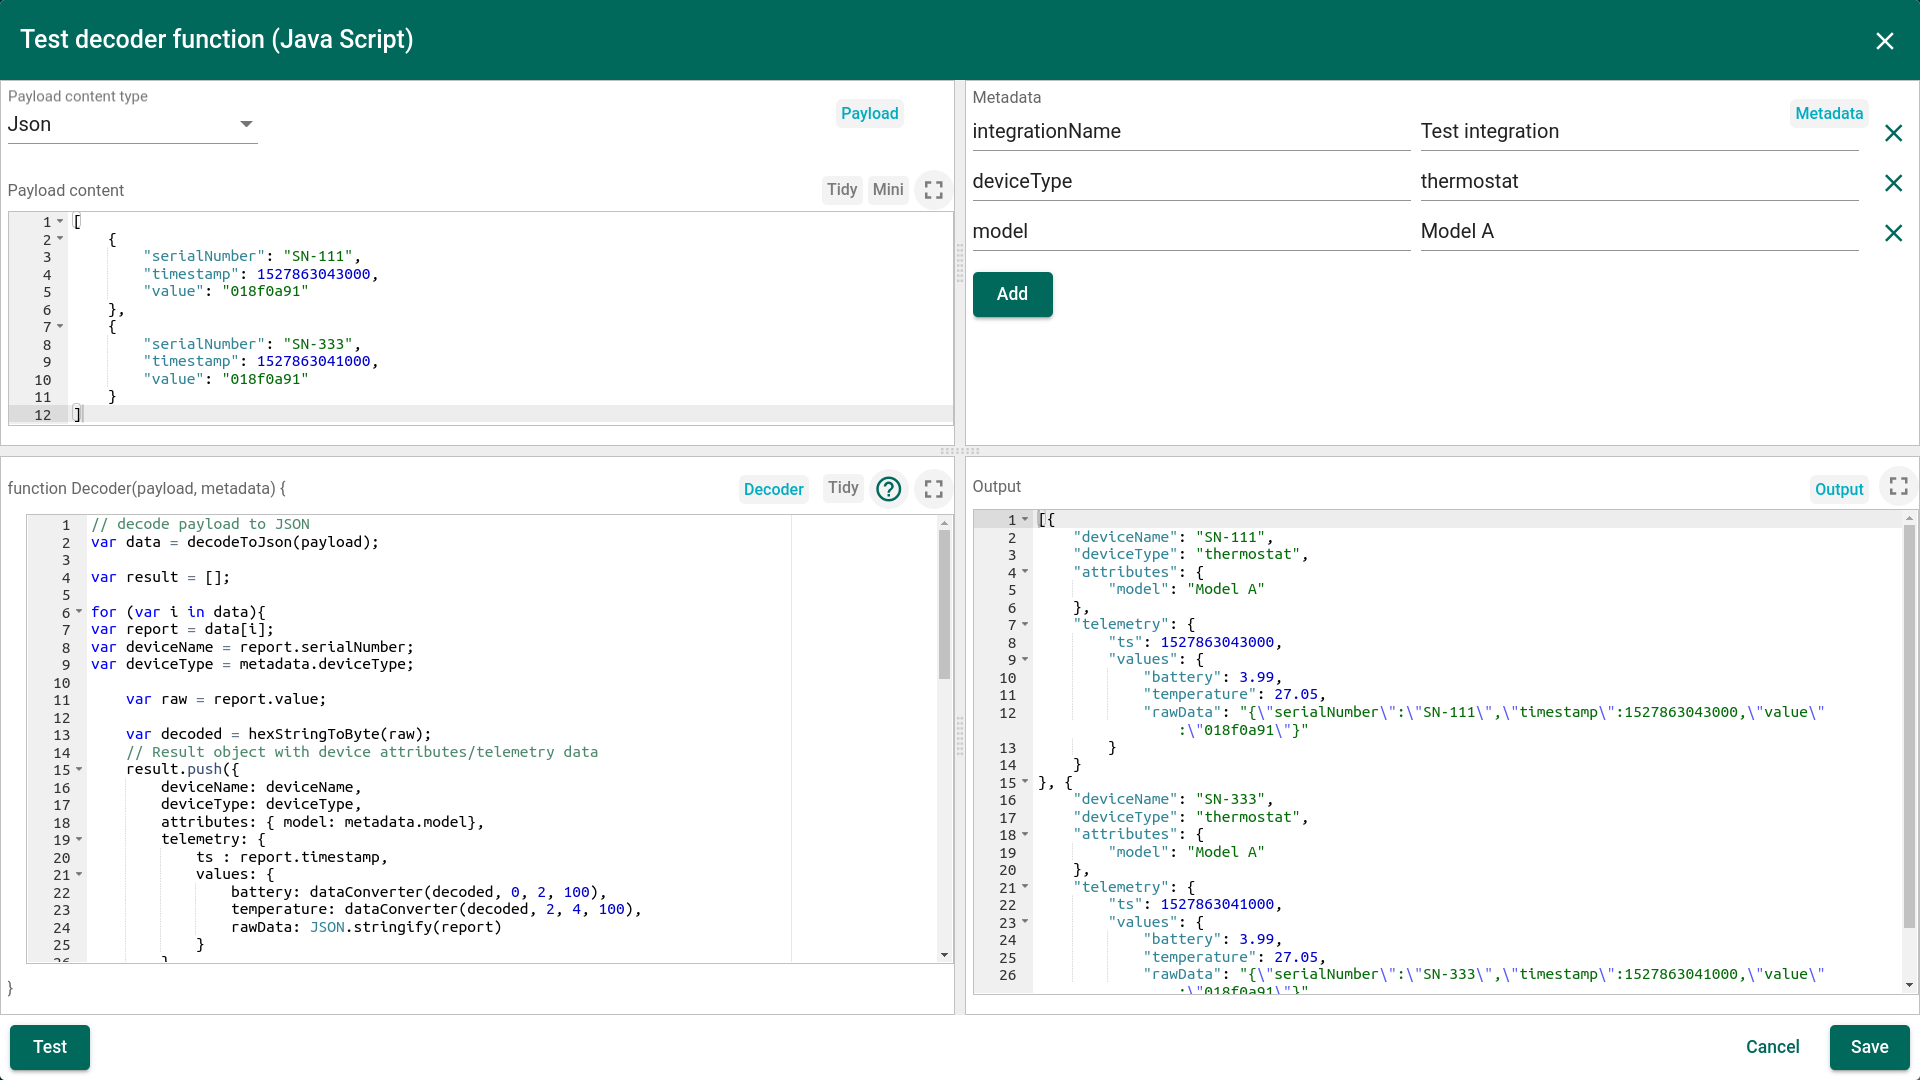
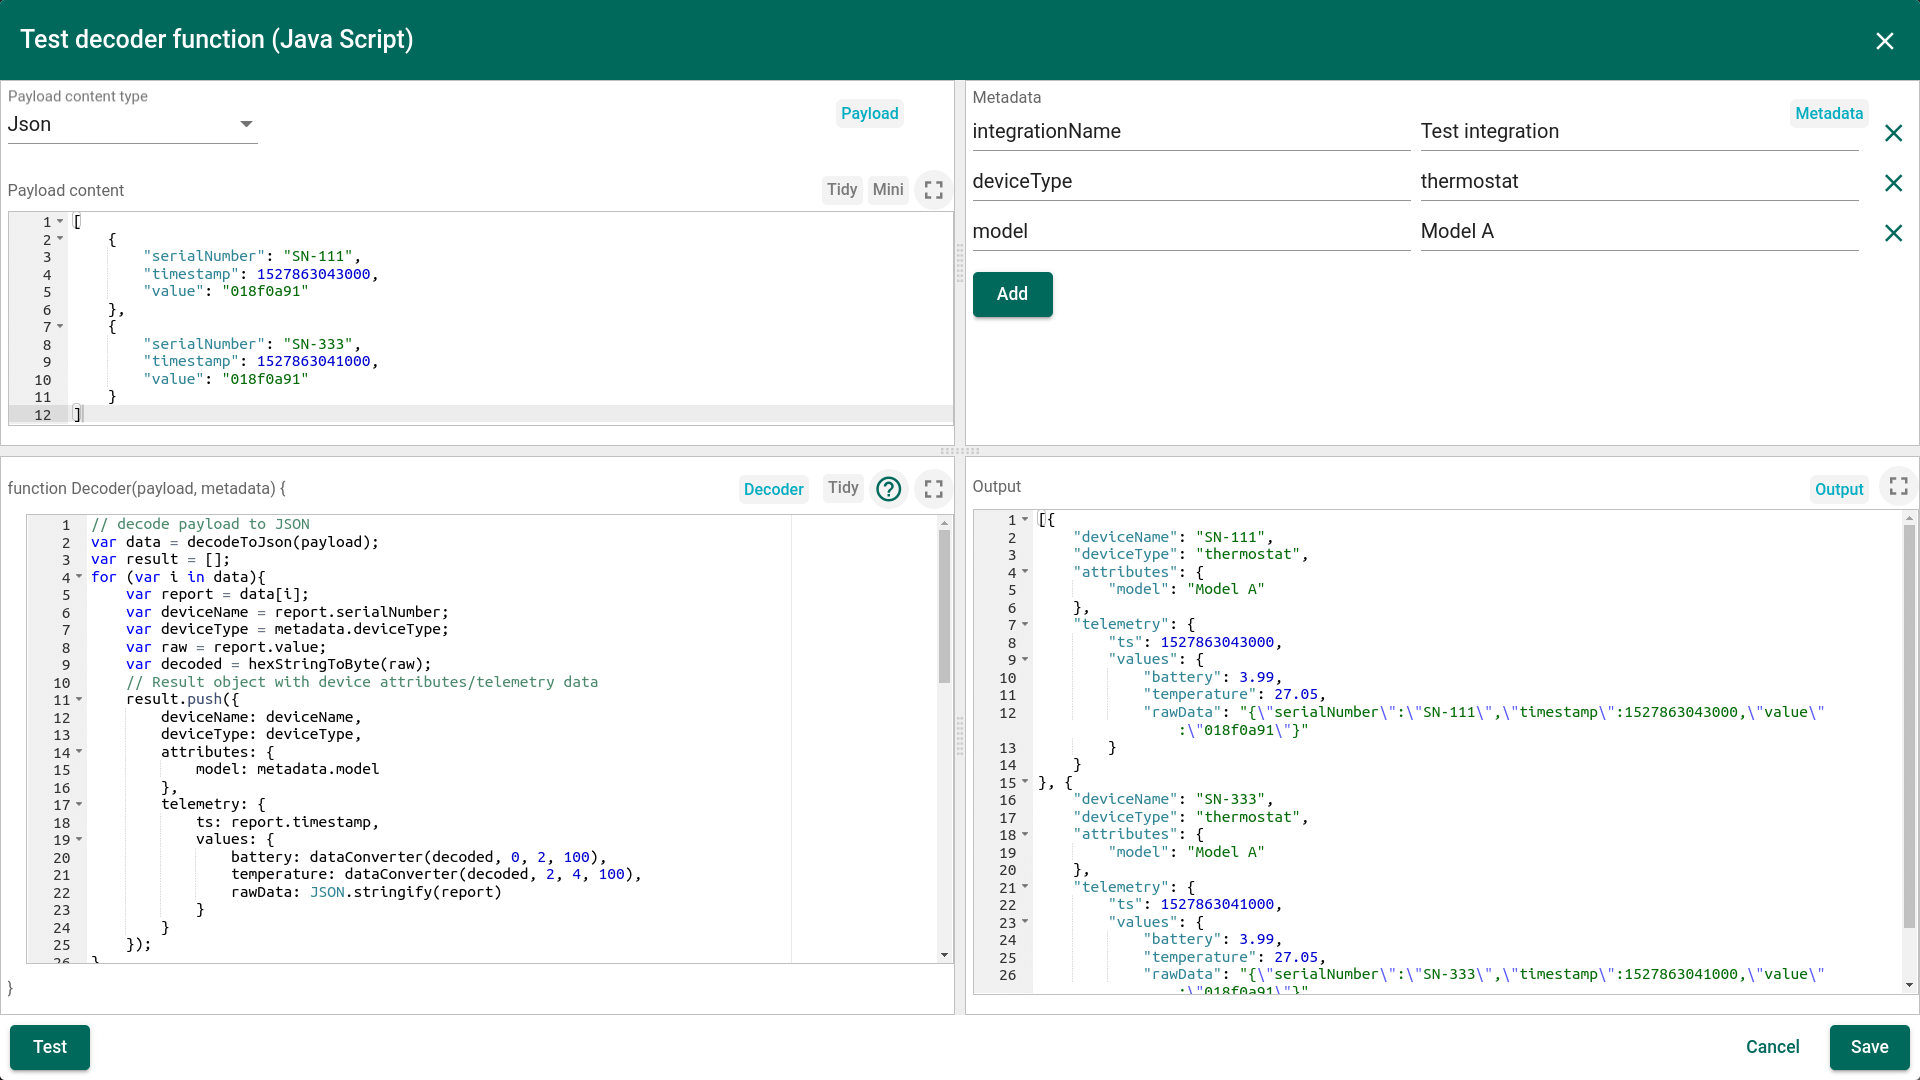
minor fixed text and add screenshots

Changed region(s): [[0.0625, 0.5194, 0.3438, 0.8861]]

diff --git a/_includes/templates/integration/overview/uplink-data-converter-example-tbel.md b/_includes/templates/integration/overview/uplink-data-converter-example-tbel.md
@@ -1,28 +1,26 @@
-![image](/images/user-guide/integrations/uplink-converter-example.png)
+![image](/images/user-guide/integrations/uplink-converter-example-tbel.png)
 
 The full source code of TBEL function used in converter:
 
 ```shell
 // decode payload to JSON
 var data = decodeToJson(payload);
-
 var result = [];
-
-for (var i in data){
-var report = data[i];
-var deviceName = report.serialNumber;
-var deviceType = metadata.deviceType;
-
+for (var i = 0; i < data.length; i++) {
+    var report = data[i];
+    var deviceName = report.serialNumber;
+    var deviceType = metadata.deviceType;
     var raw = report.value;
-
     var decoded = hexStringToByte(raw);
     // Result object with device attributes/telemetry data
     result.push({
         deviceName: deviceName,
         deviceType: deviceType,
-        attributes: { model: metadata.model},
+        attributes: {
+            model: metadata.model
+        },
         telemetry: {
-            ts : report.timestamp,
+            ts: report.timestamp,
             values: {
                 battery: dataConverter(decoded, 0, 2, 100),
                 temperature: dataConverter(decoded, 2, 4, 100),
@@ -36,44 +34,31 @@ var deviceType = metadata.deviceType;
 /** Helper functions **/
 
 function decodeToString(payload) {
-return String.fromCharCode.apply(String, payload);
-}
-
-function decodeToJson(payload) {
-// covert payload to string.
-var str = decodeToString(payload);
-
-    // parse string to JSON
-    var data = JSON.parse(str);
-    return data;
+    return String.fromCharCode.apply(String, payload);
 }
 
 function hexStringToByte(str) {
-if (!str) {
-return new Uint8Array();
-}
-
     var a = [];
-    for (var i = 0, len = str.length; i < len; i+=2) {
-        a.push(parseInt(str.substr(i,2),16));
+    if (str == null) {
+        return a;
     }
-
-    return new Uint8Array(a);
+    for (var j = 0; j < str.length; j += 2) {
+        a.push(parseInt(str.substring(j, j + 2), 16));
+    }
+    return a;
 }
 
 function dataConverter(decoded, byteIdxFrom, byteIdxTo, divided) {
-var bytes = decoded.subarray(byteIdxFrom, byteIdxTo);
-
+    // var bytes = decoded.subarray(byteIdxFrom, byteIdxTo);
     var val = 0;
-    for (var j = 0; j < bytes.length; j++) {
-        val += bytes[j];
-        if (j < bytes.length - 1) {
+    for (var j = byteIdxFrom; j < byteIdxTo; j++) {
+        val += decoded[j];
+        if (j < byteIdxTo - 1) {
             val = val << 8;
         }
     }
-    return val/divided;
+    return val / divided;
 }
-
 return result;
 ```
 {: .copy-code}

diff --git a/_includes/templates/integration/overview/uplink-data-converter-example-java.md b/_includes/templates/integration/overview/uplink-data-converter-example-java.md
@@ -5,24 +5,22 @@ The full source code of javascript function used in converter:
 ```shell
 // decode payload to JSON
 var data = decodeToJson(payload);
-
 var result = [];
-
 for (var i in data){
-var report = data[i];
-var deviceName = report.serialNumber;
-var deviceType = metadata.deviceType;
-
+    var report = data[i];
+    var deviceName = report.serialNumber;
+    var deviceType = metadata.deviceType;
     var raw = report.value;
-
     var decoded = hexStringToByte(raw);
     // Result object with device attributes/telemetry data
     result.push({
         deviceName: deviceName,
         deviceType: deviceType,
-        attributes: { model: metadata.model},
+        attributes: { 
+            model: metadata.model
+        },
         telemetry: {
-            ts : report.timestamp,
+            ts: report.timestamp,
             values: {
                 battery: dataConverter(decoded, 0, 2, 100),
                 temperature: dataConverter(decoded, 2, 4, 100),
@@ -36,7 +34,7 @@ var deviceType = metadata.deviceType;
 /** Helper functions **/
 
 function decodeToString(payload) {
-return String.fromCharCode.apply(String, payload);
+    return String.fromCharCode.apply(String, payload);
 }
 
 function decodeToJson(payload) {

diff --git a/_includes/docs/pe/user-guide/integrations/index.md b/_includes/docs/pe/user-guide/integrations/index.md
@@ -224,7 +224,7 @@ Converter may also output array of device values and/or contain timestamps in th
 ##### Example
 
 Let's assume a complex example where payload is encoded in hex "value" field and there is a timestamp associated with each record. 
-First two bytes of "value" field contain battery and second two bytes contain temperature. See payload example and metadata on a screen shoot below:
+First two bytes of "value" field contain battery and second two bytes contain temperature. See payload example and metadata on a screen shoot below.
 
 {% include templates/tbel-vs-js.md %}
 
